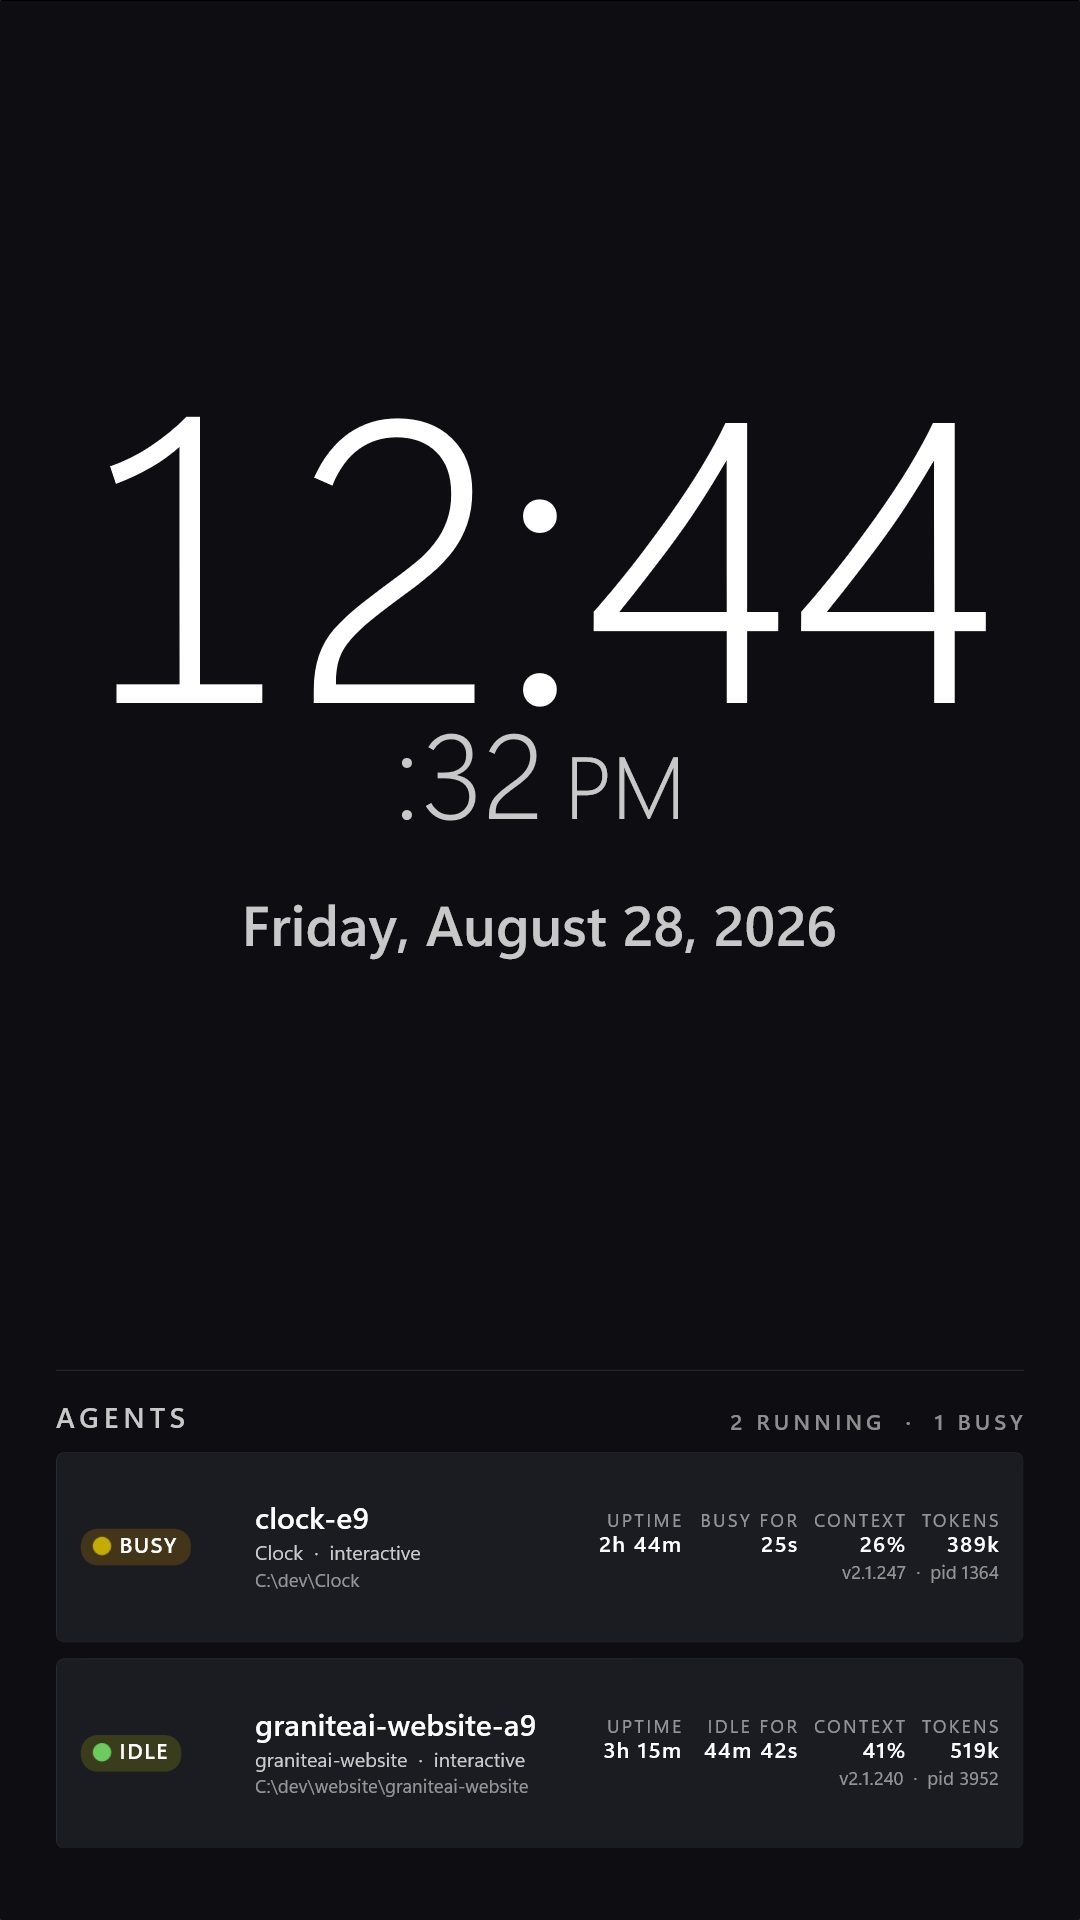
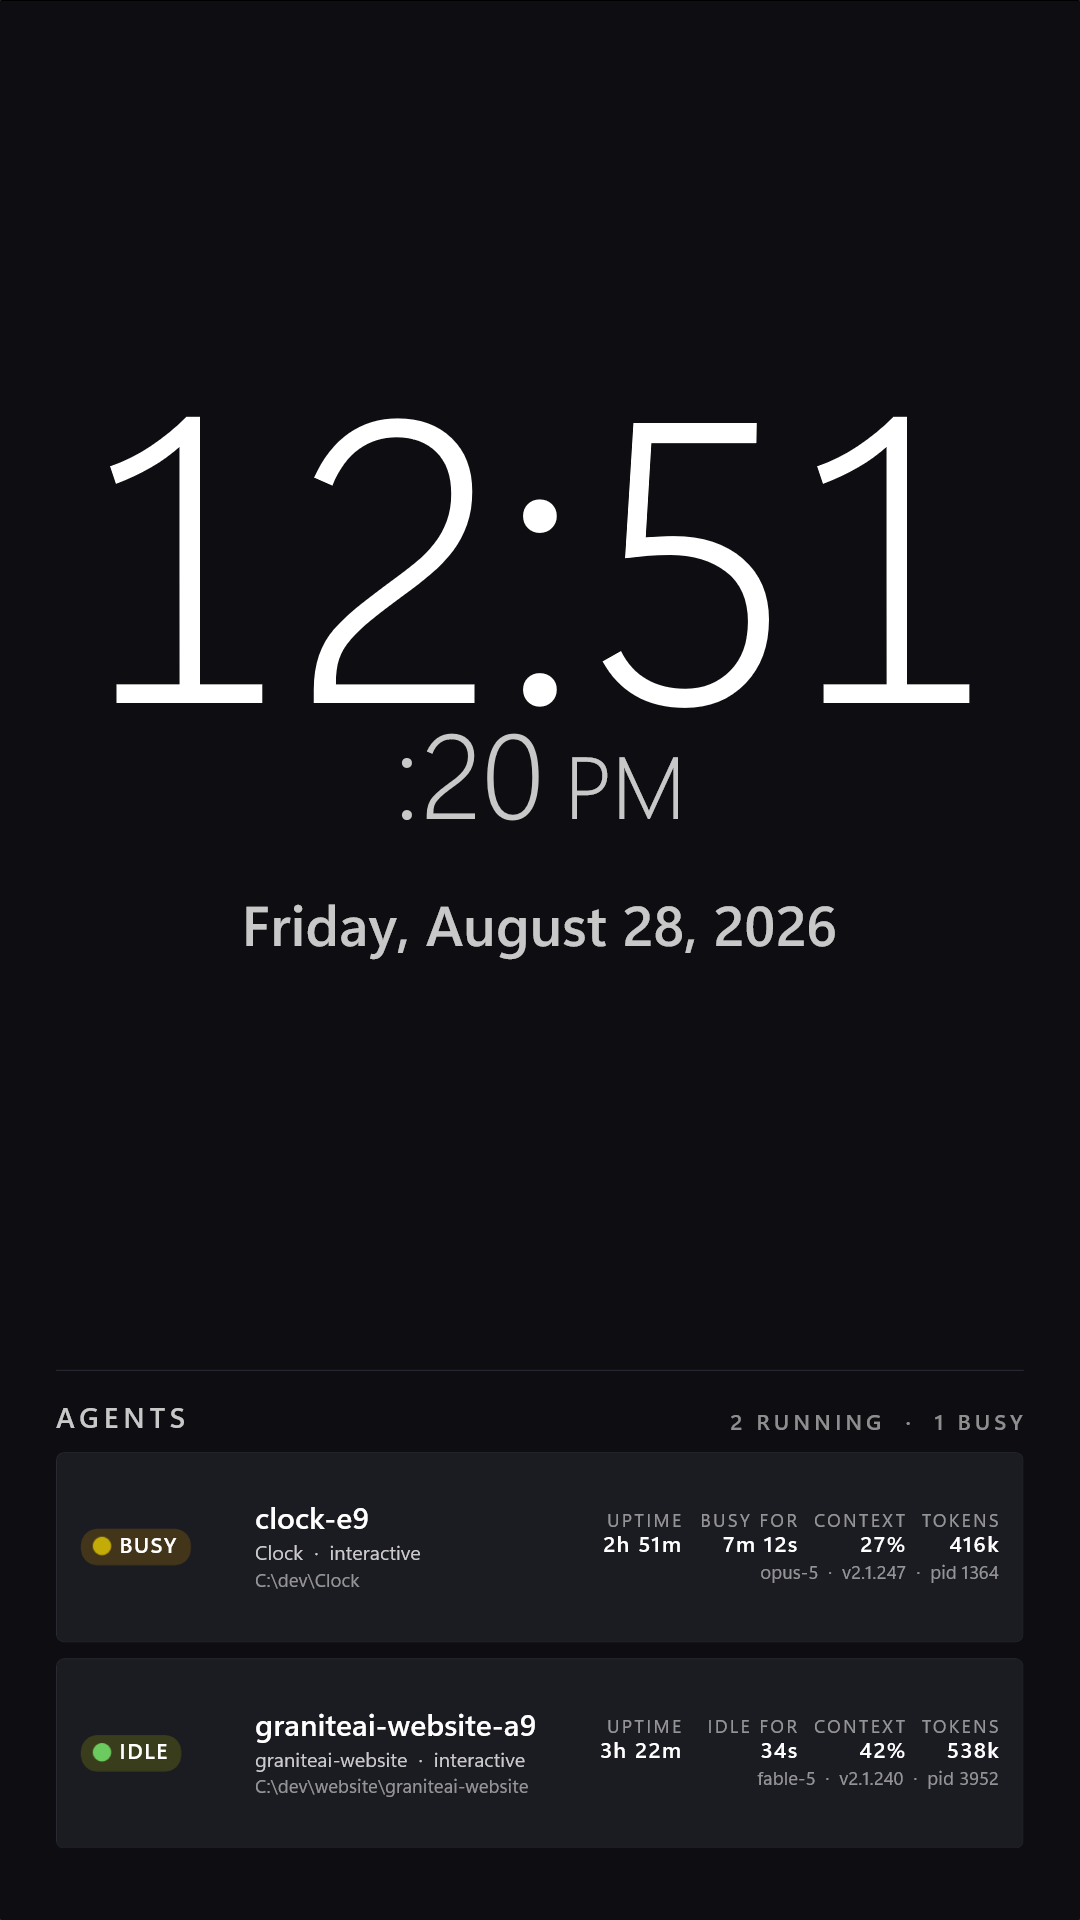
Show each agent's model on its card
The transcript tail already parsed each assistant message's usage block;
message.model sits right beside it, so it comes along for free in the same
pass. Rendered on the meta line ("opus-5 - v2.1.247 - pid 1364") rather than
as a fifth stat column, which would squeeze the identity column again.

Claude-Session: https://claude.ai/code/session_017iawUCDQUdzLFmjPUFrxpM

diff --git a/Controls/AgentListPanel.xaml b/Controls/AgentListPanel.xaml
@@ -160,7 +160,7 @@
 
                         <TextBlock Style="{StaticResource AgentMetaTextStyle}"
                                    TextAlignment="Right"
-                                   Text="{x:Bind local:AgentListPanel.MetaLine(Version, Pid), Mode=OneWay}" />
+                                   Text="{x:Bind local:AgentListPanel.MetaLine(Model, Version, Pid), Mode=OneWay}" />
 
                     </StackPanel>
 

diff --git a/Controls/AgentListPanel.xaml.cs b/Controls/AgentListPanel.xaml.cs
@@ -383,11 +383,36 @@ public sealed partial class AgentListPanel : UserControl, IDisposable
         return project + "  ·  " + sessionKind;
     }
 
-    /// <summary>The quiet provenance line: "v2.1.247 · pid 1364".</summary>
-    public static string MetaLine(string version, int pid)
+    /// <summary>The quiet provenance line: "opus-5 · v2.1.247 · pid 1364".
+    /// Each piece drops out cleanly when it is missing.</summary>
+    public static string MetaLine(string model, string version, int pid)
     {
-        var pidText = "pid " + pid.ToString(CultureInfo.InvariantCulture);
-        return string.IsNullOrWhiteSpace(version) ? pidText : "v" + version.Trim() + "  ·  " + pidText;
+        var line = "pid " + pid.ToString(CultureInfo.InvariantCulture);
+        if (!string.IsNullOrWhiteSpace(version)) line = "v" + version.Trim() + "  ·  " + line;
+
+        var shortModel = ShortModel(model);
+        return shortModel.Length == 0 ? line : shortModel + "  ·  " + line;
+    }
+
+    /// <summary>"claude-opus-5" -&gt; "opus-5", "claude-haiku-4-5-20251001" -&gt;
+    /// "haiku-4.5". Empty in, empty out - the meta line then omits it entirely
+    /// rather than showing a stray separator.</summary>
+    // ponytail: assumes today's family-first ids, "claude-<family>-<major>[-<minor>][-<datestamp>]".
+    // A legacy id like "claude-3-5-sonnet-20241022" comes out as "3.5-sonnet". If those ever come
+    // back, pick the family by matching known names instead of taking the first part.
+    public static string ShortModel(string model)
+    {
+        var name = (model ?? string.Empty).Trim();
+        if (name.StartsWith("claude-", StringComparison.OrdinalIgnoreCase)) name = name["claude-".Length..];
+
+        // Drop a trailing "-20251001" release stamp.
+        var stamp = name.LastIndexOf('-');
+        if (stamp > 0 && name.Length - stamp == 9 && name[(stamp + 1)..].All(char.IsAsciiDigit))
+            name = name[..stamp];
+
+        // Family stays dash-joined, the version parts after it join with dots.
+        var split = name.IndexOf('-');
+        return split < 0 ? name : name[..(split + 1)] + name[(split + 1)..].Replace('-', '.');
     }
 
     private static bool IsBusy(string status) => string.Equals(status, "busy", StringComparison.OrdinalIgnoreCase);

diff --git a/Services/TranscriptTokens.cs b/Services/TranscriptTokens.cs
@@ -25,11 +25,11 @@ internal sealed class TranscriptTokens
 
     private readonly Dictionary<string, Tally> _bySession = new(StringComparer.Ordinal);
 
-    /// <summary>Context held by the most recent assistant turn, and output
-    /// tokens summed over the session so far.</summary>
-    public (int Context, long Output) Read(string cwd, string sessionId)
+    /// <summary>Context held by the most recent assistant turn, output tokens
+    /// summed over the session so far, and the model that turn ran on.</summary>
+    public (int Context, long Output, string Model) Read(string cwd, string sessionId)
     {
-        if (string.IsNullOrWhiteSpace(sessionId)) return default;
+        if (string.IsNullOrWhiteSpace(sessionId)) return (0, 0, string.Empty);
 
         if (!_bySession.TryGetValue(sessionId, out var tally))
             _bySession[sessionId] = tally = new Tally();
@@ -43,7 +43,7 @@ internal sealed class TranscriptTokens
             // Absent, locked, mid-write, unreadable: keep what we already have.
         }
 
-        return (tally.Context, tally.Output);
+        return (tally.Context, tally.Output, tally.Model);
     }
 
     /// <summary>"C:\dev\Clock" -&gt; "C--dev-Clock", the on-disk project folder.</summary>
@@ -103,6 +103,14 @@ internal sealed class TranscriptTokens
                 tally.Context = Count(usage, "input_tokens")
                     + Count(usage, "cache_read_input_tokens")
                     + Count(usage, "cache_creation_input_tokens");
+
+                // The model sits beside "usage" on the same message. A session
+                // can switch models mid-run, so the last one seen wins. Read
+                // structurally, not by string search: transcripts are full of
+                // "model" keys nested inside tool inputs.
+                if (message.TryGetProperty("model", out var model) &&
+                    model.ValueKind == JsonValueKind.String)
+                    tally.Model = model.GetString() ?? string.Empty;
             }
             catch (JsonException)
             {
@@ -119,5 +127,6 @@ internal sealed class TranscriptTokens
         public long Offset;
         public long Output;
         public int Context;
+        public string Model = string.Empty;
     }
 }

diff --git a/Services/AgentSession.cs b/Services/AgentSession.cs
@@ -90,6 +90,12 @@ public sealed class AgentSession : INotifyPropertyChanged
     /// <summary>Output tokens this session has produced since it started.</summary>
     public long OutputTokens { get => _outputTokens; private set => SetField(ref _outputTokens, value); }
 
+    private string _model = string.Empty;
+    /// <summary>Raw model id of this session's most recent assistant turn, e.g.
+    /// "claude-opus-5". Read from the transcript by <see cref="TranscriptTokens"/>;
+    /// empty when it has none yet.</summary>
+    public string Model { get => _model; private set => SetField(ref _model, value ?? string.Empty); }
+
     public DateTime StartedAt { get; private set; }
 
     private DateTime _updatedAt;
@@ -142,6 +148,7 @@ public sealed class AgentSession : INotifyPropertyChanged
         DateTime statusUpdatedAt,
         int contextTokens,
         long outputTokens,
+        string model,
         bool isRunning)
     {
         Pid = pid;
@@ -158,6 +165,7 @@ public sealed class AgentSession : INotifyPropertyChanged
         _statusUpdatedAt = statusUpdatedAt;
         _contextTokens = contextTokens;
         _outputTokens = outputTokens;
+        _model = model ?? string.Empty;
         _isRunning = isRunning;
     }
 
@@ -181,6 +189,7 @@ public sealed class AgentSession : INotifyPropertyChanged
         StatusUpdatedAt = fresh.StatusUpdatedAt;
         ContextTokens = fresh.ContextTokens;
         OutputTokens = fresh.OutputTokens;
+        Model = fresh.Model;
         IsRunning = fresh.IsRunning;
 
         if (fresh.StartedAt != default && StartedAt != fresh.StartedAt)

diff --git a/Services/SessionWatcher.cs b/Services/SessionWatcher.cs
@@ -309,7 +309,7 @@ public sealed class SessionWatcher : IDisposable
         if (!IsProcessAliveAndMatches(dto.Pid, startedAtLocal))
             return null; // stale file outliving its process, or pid reuse
 
-        var (contextTokens, outputTokens) = _transcripts.Read(dto.Cwd ?? string.Empty, dto.SessionId!);
+        var (contextTokens, outputTokens, model) = _transcripts.Read(dto.Cwd ?? string.Empty, dto.SessionId!);
 
         return new AgentSession(
             dto.Pid,
@@ -325,6 +325,7 @@ public sealed class SessionWatcher : IDisposable
             statusUpdatedAtLocal,
             contextTokens,
             outputTokens,
+            model,
             isRunning: true);
     }
 
